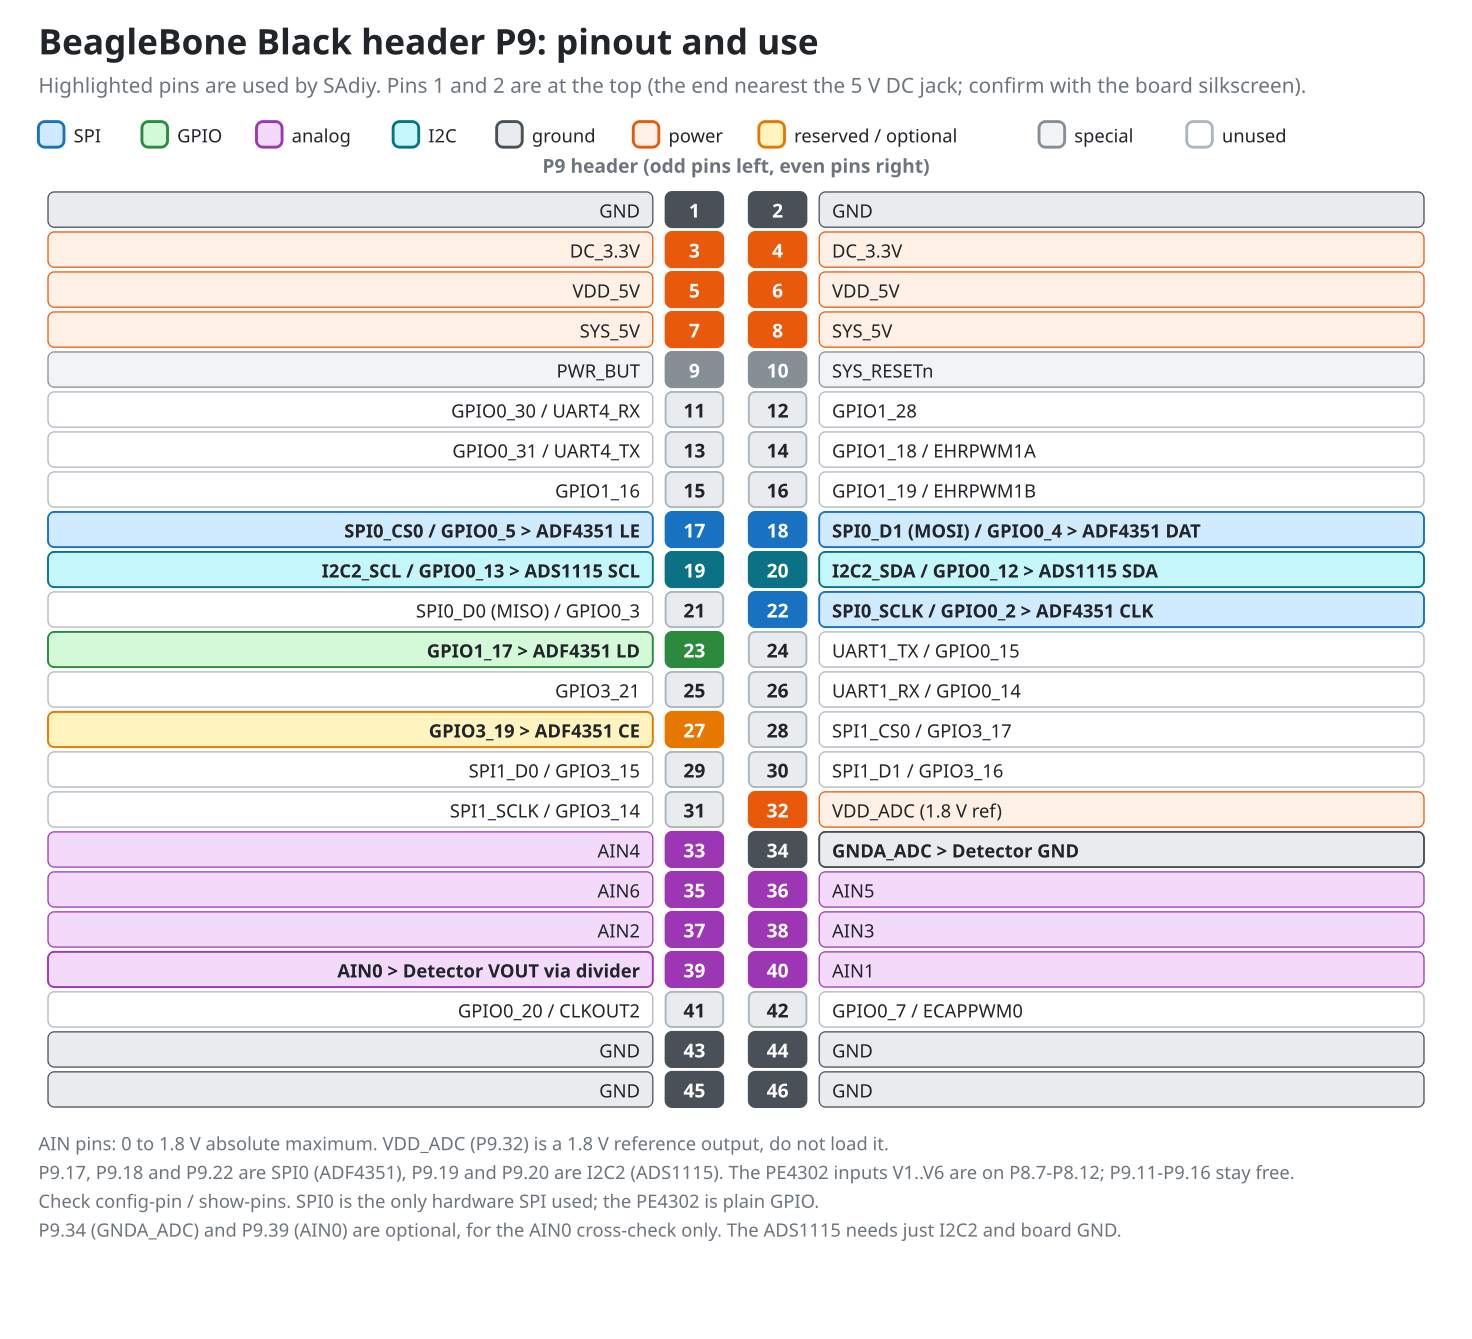
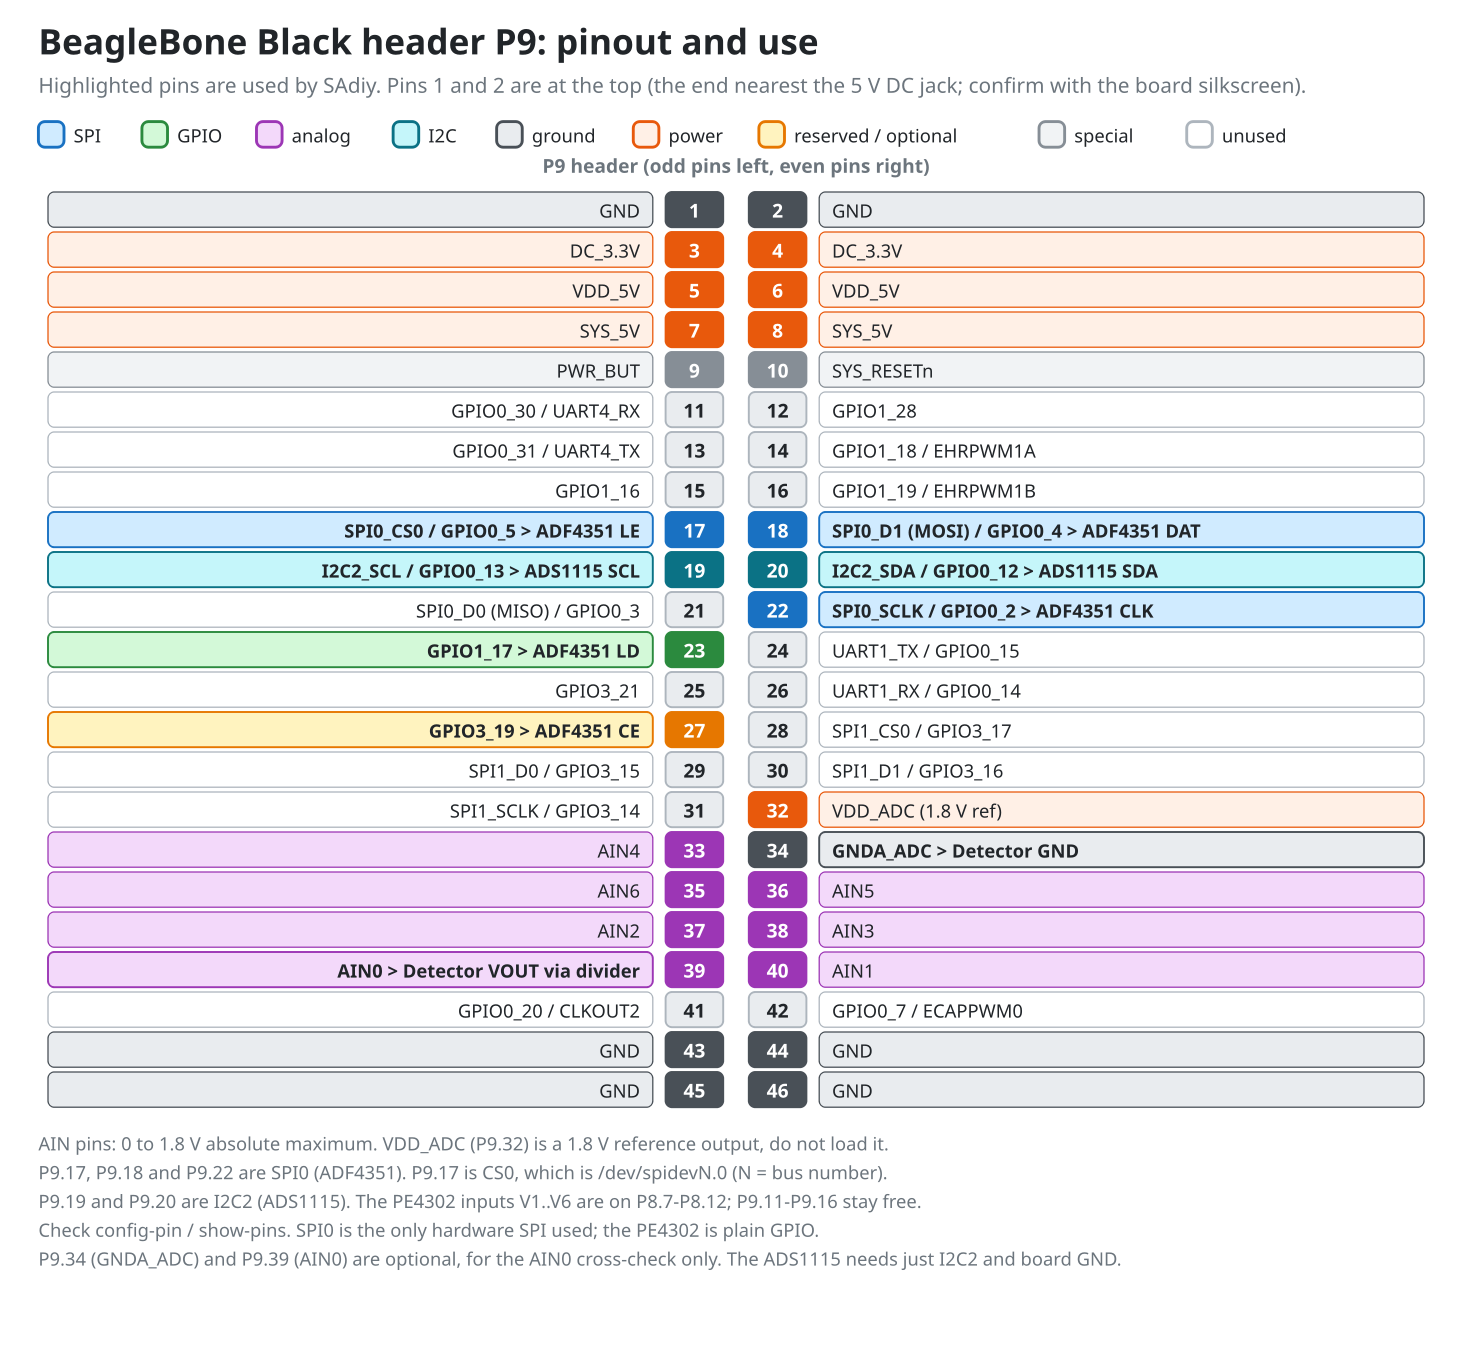
name the SPI device in errors and on the pin map
- SPI errors now name the device tried and the ones present, and refused
  commands repeat the reason instead of "SPI is not available"
- show that P9.17 (SPI0 CS0) is /dev/spidevN.0 in the netlist, the GUI's pin
  details and the BBB diagrams
- split a note that ran off the edge of the P9 diagram

diff --git a/src/sadiy/server/bench.py b/src/sadiy/server/bench.py
@@ -137,6 +137,7 @@ class Bench:
         self._att: Optional[PE4302] = None
         self._att_log: List[List] = []
         self._spi_bus = None
+        self._spi_problem = ""
         self._adf: Optional[Adf4351] = None
         self._ads: Optional[Ads1115] = None
         self._outputs = Outputs()
@@ -225,6 +226,7 @@ class Bench:
             self._adf = Adf4351(self._spi_bus, self.pfd_hz, self.mod_max)        # writes outputs-off R4
             self._last_r4 = self._adf.r4_word()
         except (OSError, ImportError) as exc:
+            self._spi_problem = str(exc)
             warnings.append(f"SPI not available, the RF output state is unknown: {exc}")
         try:
             bus = self.backend.i2c()
@@ -502,9 +504,12 @@ class Bench:
                 "pins": self._levels()}
 
     # ------------------------------------------------------------ synthesizer
-    def _check_words(self, words: Sequence[int]) -> None:
+    def _require_spi(self) -> None:
         if self._adf is None:
-            raise Refused("SPI is not available")
+            raise Refused(f"SPI is not available: {self._spi_problem}")
+
+    def _check_words(self, words: Sequence[int]) -> None:
+        self._require_spi()
         for w in words:
             if not isinstance(w, int) or not 0 <= w <= 0xFFFFFFFF:
                 raise Refused(f"{w!r} is not a 32-bit word")
@@ -536,8 +541,7 @@ class Bench:
     def _rf(self, cmd: dict) -> dict:
         """Explicit RF output control. Turning on needs lock; turning off always works."""
         self._require_no_pattern()
-        if self._adf is None:
-            raise Refused("SPI is not available")
+        self._require_spi()
         main, aux = bool(cmd.get("main")), bool(cmd.get("aux"))
         power = int(cmd.get("power_dbm", -4))
         if main or aux:

diff --git a/tools/gen_diagrams.py b/tools/gen_diagrams.py
@@ -298,7 +298,7 @@ def sbc_rows_bbb():
 
     return [
         dict(t="group", label="SPI0 to ADF4351 board"),
-        r(22, "clk", "L"), r(18, "data", "L"), r(17, "le", "L"), r(23, "ld", "L", "input"),
+        r(22, "clk", "L"), r(18, "data", "L"), r(17, "le", "L", "/dev/spidevN.0"), r(23, "ld", "L", "input"),
         dict(t="group", label="GPIO to PE4302 board (V1..V6 on P8.7-P8.12)"),
         r("P8.7", "v1", "L"), r("P8.8", "v2", "L"), r("P8.9", "v3", "L"), r("P8.10", "v4", "L"), r("P8.11", "v5", "L"), r("P8.12", "v6", "L"),
         dict(t="group", label="I2C2 to ADS1115 (main ADC)"),
@@ -690,7 +690,8 @@ def main() -> None:
            "Highlighted pins are used by SAdiy. Pins 1 and 2 are at the top (the end nearest the 5 V DC jack; confirm with the board silkscreen).",
            BBB_P9, "bbb",
            ["AIN pins: 0 to 1.8 V absolute maximum. VDD_ADC (P9.32) is a 1.8 V reference output, do not load it.",
-            "P9.17, P9.18 and P9.22 are SPI0 (ADF4351), P9.19 and P9.20 are I2C2 (ADS1115). The PE4302 inputs V1..V6 are on P8.7-P8.12; P9.11-P9.16 stay free.",
+            "P9.17, P9.18 and P9.22 are SPI0 (ADF4351). P9.17 is CS0, which is /dev/spidevN.0 (N = bus number).",
+            "P9.19 and P9.20 are I2C2 (ADS1115). The PE4302 inputs V1..V6 are on P8.7-P8.12; P9.11-P9.16 stay free.",
             "Check config-pin / show-pins. SPI0 is the only hardware SPI used; the PE4302 is plain GPIO.",
             "P9.34 (GNDA_ADC) and P9.39 (AIN0) are optional, for the AIN0 cross-check only. The ADS1115 needs just I2C2 and board GND."],
            "P9 header (odd pins left, even pins right)")

diff --git a/tests/test_bench.py b/tests/test_bench.py
@@ -774,3 +774,31 @@ def test_nothing_on_the_i2c_bus_closes_it_and_only_warns():
     assert r["ok"] and any("ADS1115 not available" in w for w in r["warnings"])
     assert ads.closed and "not available" in rig.cmd("adc")["error"]
     assert rig.cmd("close")["ok"]
+
+
+def test_spi_error_names_the_device_and_what_is_there(tmp_path, monkeypatch):
+    from sadiy.hal import linux
+
+    (tmp_path / "spidev0.0").touch()
+    (tmp_path / "spidev0.1").touch()
+
+    def no_device(self, *args):
+        raise FileNotFoundError(2, "No such file or directory")
+
+    monkeypatch.setattr(linux.SpidevBus, "__init__", no_device)
+    monkeypatch.setattr(linux.LinuxBackend, "DEV", tmp_path)
+    with pytest.raises(OSError, match=r"/dev/spidev1\.0 .*Present: spidev0\.0, spidev0\.1.*spi_bus"):
+        linux.LinuxBackend(spi_bus=1).spi()
+
+
+def test_refused_spi_command_says_why_not_just_that_it_failed():
+    rig = Rig()
+
+    def no_bus():
+        raise OSError("could not open /dev/spidev1.0")
+
+    rig.backend.spi = no_bus
+    rig.open()
+    for reply in (rig.cmd("spi", word=5, confirm=True), rig.cmd("rf", main=False)):
+        assert not reply["ok"] and "/dev/spidev1.0" in reply["error"]
+    assert "/dev/spidev1.0" in rig.cmd("pattern", action="start", spec={"kind": "adf4351_frame", "words": [5]}, confirm=True)["error"]

diff --git a/src/sadiy/hal/linux.py b/src/sadiy/hal/linux.py
@@ -119,6 +119,7 @@ class LinuxBackend(BenchBackend):
     """The real board. Bus and device numbers come from the [bench] config section."""
 
     name = "BBB (sysfs GPIO, spidev, i2c-dev, IIO)"
+    DEV = Path("/dev")
 
     def __init__(self, spi_bus: int = 1, spi_device: int = 0, spi_hz: int = 1_000_000, i2c_bus: int = 2,
                  i2c_address: int = 0x48, iio_device: str = "iio:device0") -> None:
@@ -137,7 +138,13 @@ class LinuxBackend(BenchBackend):
         return SysfsGpio(sysfs_number(number, self._bases), output, initial)
 
     def spi(self) -> SpidevBus:
-        return SpidevBus(*self._spi_args)
+        bus, device, _hz = self._spi_args
+        try:
+            return SpidevBus(*self._spi_args)
+        except OSError as exc:
+            found = ", ".join(sorted(p.name for p in self.DEV.glob("spidev*"))) or "none"
+            raise OSError(f"could not open /dev/spidev{bus}.{device} ({exc}). Present: {found}. "
+                          "Set spi_bus and spi_device under [bench] in local.toml, then restart sweepd") from exc
 
     def i2c(self) -> LinuxI2c:
         return LinuxI2c(*self._i2c_args)

diff --git a/src/sadiy/pinmap.py b/src/sadiy/pinmap.py
@@ -21,7 +21,7 @@ NETS = [
     dict(id="SYN_DATA", dev="ADF4351", dpin="DAT", kind="spi", dir="SBC to board", bbb=18, rpi=19, mux="spi",
          note="32-bit words"),
     dict(id="SYN_LE", dev="ADF4351", dpin="LE", kind="spi", dir="SBC to board", bbb=17, rpi=24, mux="spi_cs",
-         note="used as SPI chip select; data latches on the rising edge at the end of a transfer"),
+         note="SPI0 CS0, which is /dev/spidevN.0 (N = bus number, spi_device = 0); used as SPI chip select; data latches on the rising edge at the end of a transfer"),
     dict(id="SYN_LD", dev="ADF4351", dpin="LD", kind="gpio", dir="board to SBC", bbb=23, rpi=35,
          note="digital lock detect output (Lock_Flag LED on the board), GPIO input; the MUX pin stays unused"),
     dict(id="SYN_CE", dev="ADF4351", dpin="CE", kind="reserved", dir="SBC to board", bbb=27, rpi=36,

diff --git a/hw/netlist.md b/hw/netlist.md
@@ -10,7 +10,7 @@ BBB = BeagleBone Black headers P8 and P9. RPi = 40-pin header (physical pin numb
 |---|---|---|---|---|---|---|
 | SYN_CLK | ADF4351 | CLK | SBC to board | P9.22 SPI0_SCLK / GPIO0_2 | pin 23 GPIO11 / SPI0 SCLK | SPI mode 0, MSB first |
 | SYN_DATA | ADF4351 | DAT | SBC to board | P9.18 SPI0_D1 (MOSI) / GPIO0_4 | pin 19 GPIO10 / SPI0 MOSI | 32-bit words |
-| SYN_LE | ADF4351 | LE | SBC to board | P9.17 SPI0_CS0 / GPIO0_5 | pin 24 GPIO8 / SPI0 CE0 | used as SPI chip select; data latches on the rising edge at the end of a transfer |
+| SYN_LE | ADF4351 | LE | SBC to board | P9.17 SPI0_CS0 / GPIO0_5 | pin 24 GPIO8 / SPI0 CE0 | SPI0 CS0, which is /dev/spidevN.0 (N = bus number, spi_device = 0); used as SPI chip select; data latches on the rising edge at the end of a transfer |
 | SYN_LD | ADF4351 | LD | board to SBC | P9.23 GPIO1_17 | pin 35 GPIO19 / PCM_FS | digital lock detect output (Lock_Flag LED on the board), GPIO input; the MUX pin stays unused |
 | SYN_CE | ADF4351 | CE | SBC to board | P9.27 GPIO3_19 | pin 36 GPIO16 | optional; tie the CE header pin to 3V3 until needed |
 | ATT_V1 | PE4302 | V1 (0.5 dB) | SBC to board | P8.7 GPIO2_2 / TIMER4 | pin 29 GPIO5 | assumed weight; verify order and polarity with pe4302-walk |
